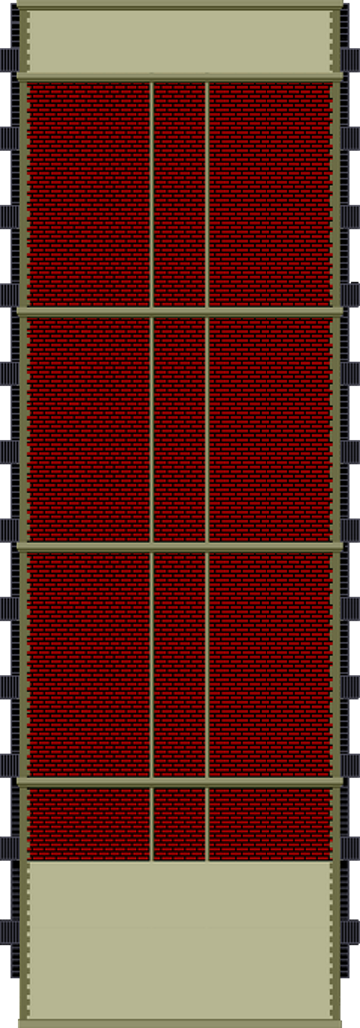
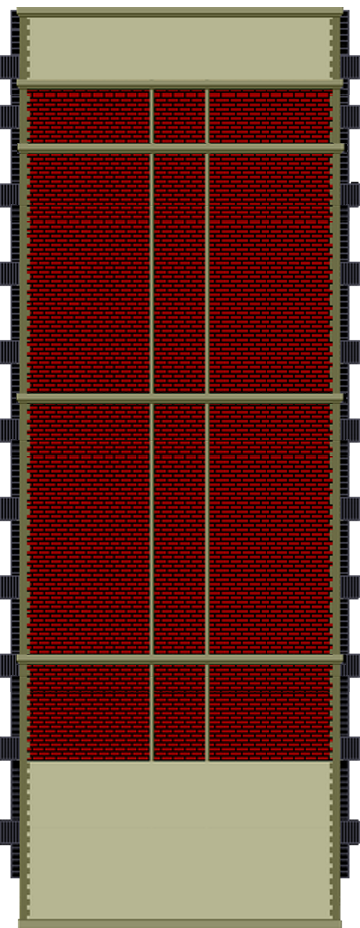
b

diff --git a/src/personajes/Felix.java b/src/personajes/Felix.java
@@ -70,10 +70,19 @@ public class Felix extends Chocable{
 		super.requests.add(new REQ(FELIX,1));
 	}
 	/**
+	 * Verifica el choque de dos elementos
+	 * @param felix objeto a chocar
+	 */
+	public void chequearChoque(Chocable c) throws Evento{
+		if (pos.equals(c.getPos())) {
+			this.chocar(c);
+		}
+	}
+	/**
 	 * Simula un choque con un objeto
 	 * @param c Objeto a chocar
 	 */
-	public void chocar(Chocable c) throws Evento{
+	private void chocar(Chocable c) throws Evento{
 		if(!this.esInvulnerable()){
 			if (c.getClass() == Ladrillo.class) {
 				vidas--;
@@ -81,12 +90,16 @@ public class Felix extends Chocable{
 					throw new Evento(EventoID.TERMINAJUEGO);
 				}
 				this.setPos(new Posicion(0,0));
+				timerInvulnerable = 20;
+				throw new Evento(EventoID.OFF_SCREEN,c);
 			}
 			if (c.getClass() == Pajaro.class) {
 				vidas--;
 				if(vidas==0){
 					throw new Evento(EventoID.TERMINAJUEGO);
 				}
+				timerInvulnerable = 20;
+				throw new Evento(EventoID.OFF_SCREEN,c);
 			}
 		}
 		if(c.getClass() == Pastel.class){

diff --git a/src/juego/Contexto.java b/src/juego/Contexto.java
@@ -46,7 +46,6 @@ public class Contexto implements Actualizable{
 	 * @throws Evento 
 	 */
 	public void terminarJuego() throws Evento{
-		System.out.println("lo diste vuelta");
 		throw new Evento(EventoID.TERMINAJUEGO,new Integer(puntaje));
 	}
 	/**
@@ -106,6 +105,8 @@ public class Contexto implements Actualizable{
 				}else{
 					this.terminarJuego();
 				}
+				felix = new Felix();
+				ralph = new Ralph();
 				throw new Evento(EventoID.GANANIVEL);
 			}else if(e.getId()==EventoID.GANASECCION){
 				felix.setPos(new Posicion(felix.getPos().getX(),0));
@@ -116,8 +117,12 @@ public class Contexto implements Actualizable{
 		ArrayList<Chocable> paraEliminar = new ArrayList<Chocable>();
 		for(Chocable chocable: chocables){
 			try{
-				if(chocable!=null)
+				if(chocable!=null){
 					chocable.actualizar();
+					if(!(chocable instanceof Felix)){
+						felix.chequearChoque(chocable);
+					}
+				}
 			}catch(Evento e){
 				switch(e.getId()){
 				case CHAU_PASTEL:

diff --git a/src/personajes/Chocable.java b/src/personajes/Chocable.java
@@ -45,15 +45,6 @@ public abstract class Chocable implements Actualizable {
 		imagenes.add(setImage(url));
 	}
 	/**
-	 * Verifica el choque de dos elementos
-	 * @param felix objeto a chocar
-	 */
-	public void chequearChoque(Felix felix) throws Evento{
-		if (pos.equals(felix.getPos())) {
-			felix.chocar(this);
-		}
-	}
-	/**
 	 * Mueve el objeto en cierta direcci&oacute;n.
 	 * Se divide cada posici&oacute; en subposiciones
 	 * para variar la velocidad de los objetos

diff --git a/src/juego/Seccion.java b/src/juego/Seccion.java
@@ -53,8 +53,8 @@ public class Seccion{
 	 */
 	public void puertaYBalcon(){
 		int medio = (int) ((COLS-1) / 2);
-		mapa[0][medio] = new Ventana(Tipo.COMUN);
-		mapa[1][medio] = new Ventana(Tipo.COMUN);
+		mapa[0][medio] = new Ventana(Tipo.PUERTA);
+		mapa[1][medio] = new Ventana(Tipo.SEMICIRCULAR);
 	}
 	public void imprimir(){
 		for(int j = ROWS-1;j>=0;j--){

diff --git a/src/graficos/ContainerJuego.java b/src/graficos/ContainerJuego.java
@@ -42,7 +42,7 @@ public class ContainerJuego extends JPanel implements Actualizable{
 		File archivo = new File("res/img/edificio/edificio.png");
 		try {
 			BufferedImage fondo = ImageIO.read(archivo);
-			int y = visualOffset-648;
+			int y = visualOffset-548;
 			g.drawImage(fondo, 0, y, null);
 		} catch (IOException e) {
 			e.printStackTrace();

diff --git a/src/control/Controlador.java b/src/control/Controlador.java
@@ -106,6 +106,9 @@ public class Controlador implements ActionListener{
 				}else if(ex.getId()==EventoID.GANANIVEL){
 					panelJuego.reset();
 					window.setTitulo("Wreck It Ralph - Nivel "+Utils.nivelActual);
+				}else if(ex.getId()==EventoID.TERMINAJUEGO){
+					ctx=null;
+					window.setContentPane(new ContainerMenu());
 				}
 			}
 		}

diff --git a/src/utils/Utils.java b/src/utils/Utils.java
@@ -40,7 +40,7 @@ public class Utils {
 	/** Tiempo de invulnerabilidad de F&eacute;lix */
 	public static final int tiempoInvulnerable = 100;
 	/** Probabilidad de que Ralph tire ladrillos */
-	public static final int probTirar = 4;
+	public static final int probTirar = 60;
 	
 	public static final String BASE_IMG = "res/img/";
 	
